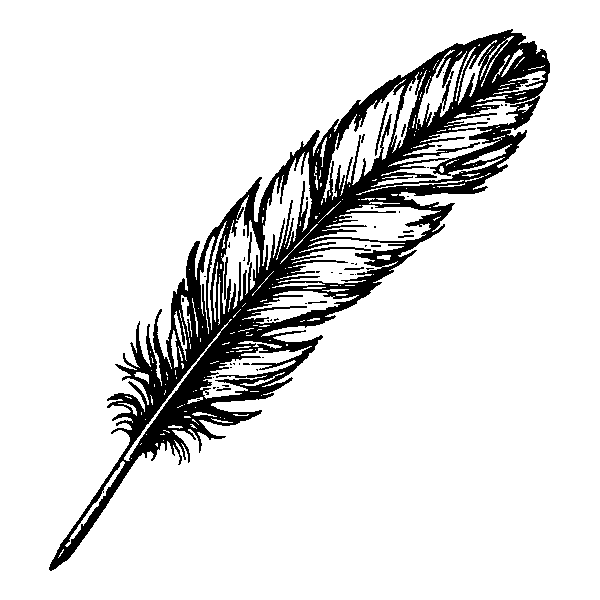
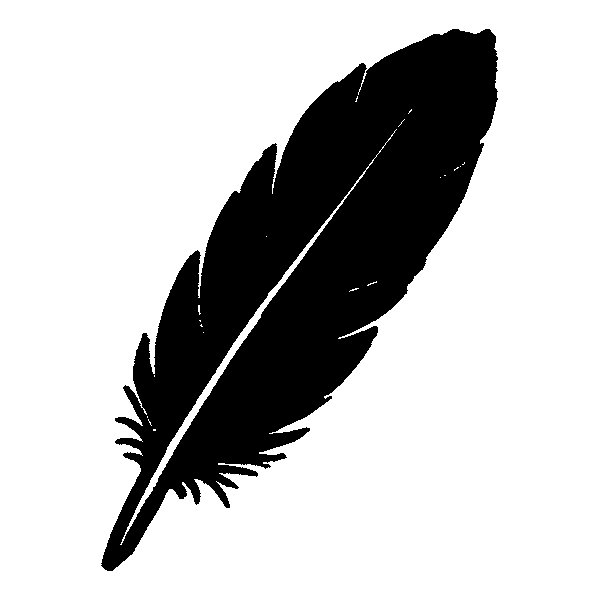
Bold symbol drawings for the card ink symbols
New Eachlabs/Qwen drawings for HP, SPD, Trait and Technique (STR, DEX, INT
and WIL came earlier); Knack stays the first-round drawing (out of
Eachlabs balance). rules/symbols/ink/ rebuilt with tools/ink_symbols.py,
which now thickens the bold drawings lightly (grow 5) so their white
details survive. Lessons added to rules/art/PROMPTING.md.

Claude-Session: https://claude.ai/code/session_01HGm9BMdZLpWeCueRD3DcTa

Changed region(s): [[0.06, 0.03, 0.93, 0.96]]

diff --git a/tools/ink_symbols.py b/tools/ink_symbols.py
@@ -67,9 +67,9 @@ def save(im, path):
     out.save(path)
 
 
-# the feather gets a fifth of the others' thickening (scale 10 instead of 2)
-plain = {"str": {}, "dex": {"grow": 15, "scale": 10}, "int": {}, "wil": {"grow": 15}, "hp": {}, "spd": {},
-         "trait": {}, "technique": {"grow": 13}, "knack": {}}
+# The drawings from gen_art.py --symbols are already bold: a light thickening keeps their white details (highlights, veins).
+# knack is still the earlier thin pen drawing and gets the full thickening.
+plain = {n: {"grow": 5} for n in ("str", "dex", "int", "wil", "hp", "spd", "trait", "technique")} | {"knack": {}}
 done = {n: bold(n, **o) for n, o in plain.items()}
 for n, im in done.items():
     save(im, OUT / f"{n}.png")

diff --git a/rules/art/PROMPTING.md b/rules/art/PROMPTING.md
@@ -103,6 +103,11 @@ It was made from square 2048 × 2048 images, the same reference and an icon vers
 - **Saying which way things face works every time:** knuckles forward, boot toe right, swords pointing up.
 - **Square results sometimes have a faint line at the edges.** Trim a few pixels off each side.
 
+A second round (`gen_art.py --symbols`, SYMBOL_STYLE: "bold ink icon, thick brush pen, thick heavy outlines, large areas
+filled solid black", no reference image, square) gave bold symbols that read at card size. Knack is still from the first round.
+- **Dropping the sketch-sheet reference is what made them bold.** With it, every icon came back as a thin pen drawing.
+- **Bold drawings need little thickening.** tools/ink_symbols.py's full min filter closed their white highlights and veins; they use grow 5.
+
 ## Output
 
 - Portrait 3:4 at 1728 × 2368. The card's picture panel (50 × 67 mm) crops the top and bottom slightly; keep the figure whole with a margin.
